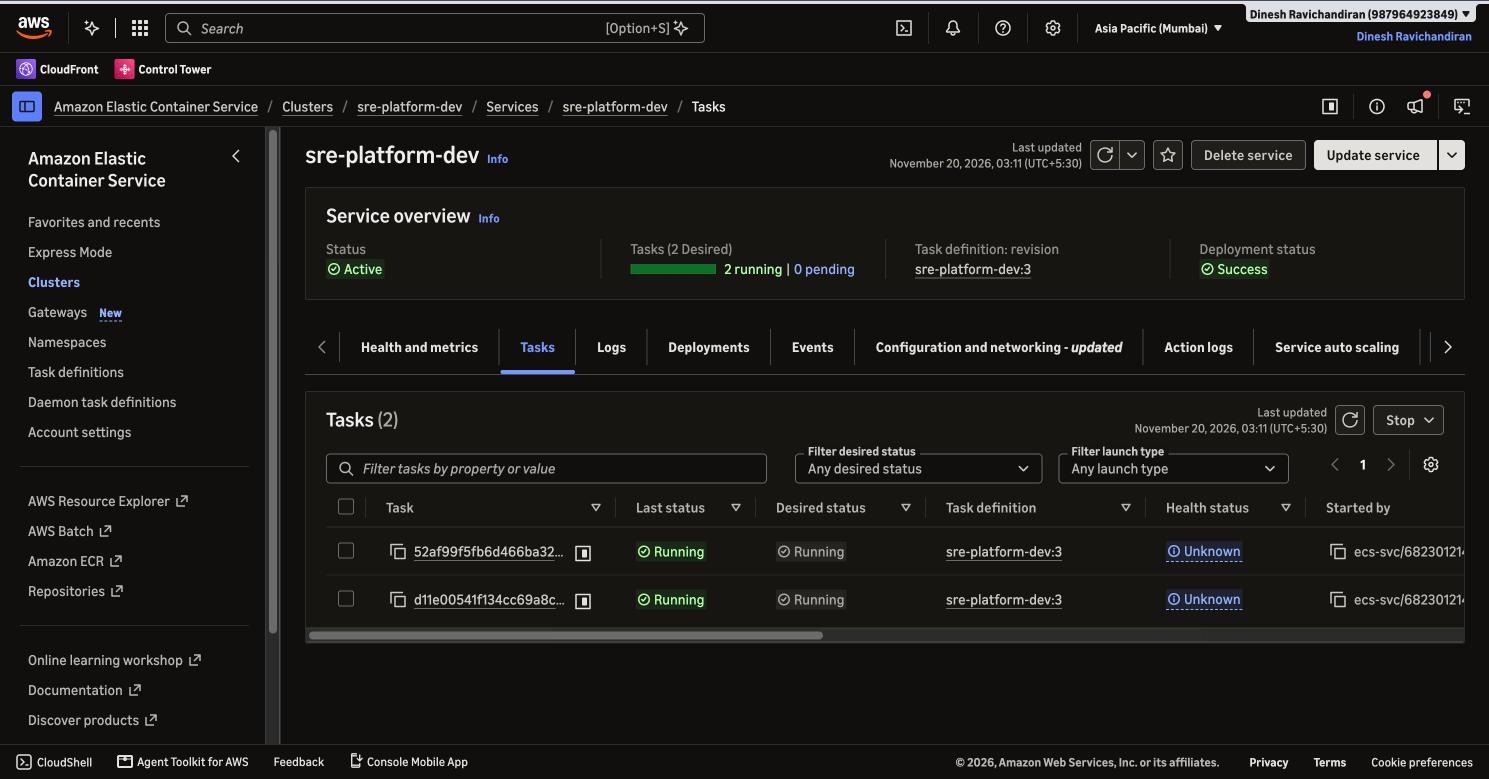
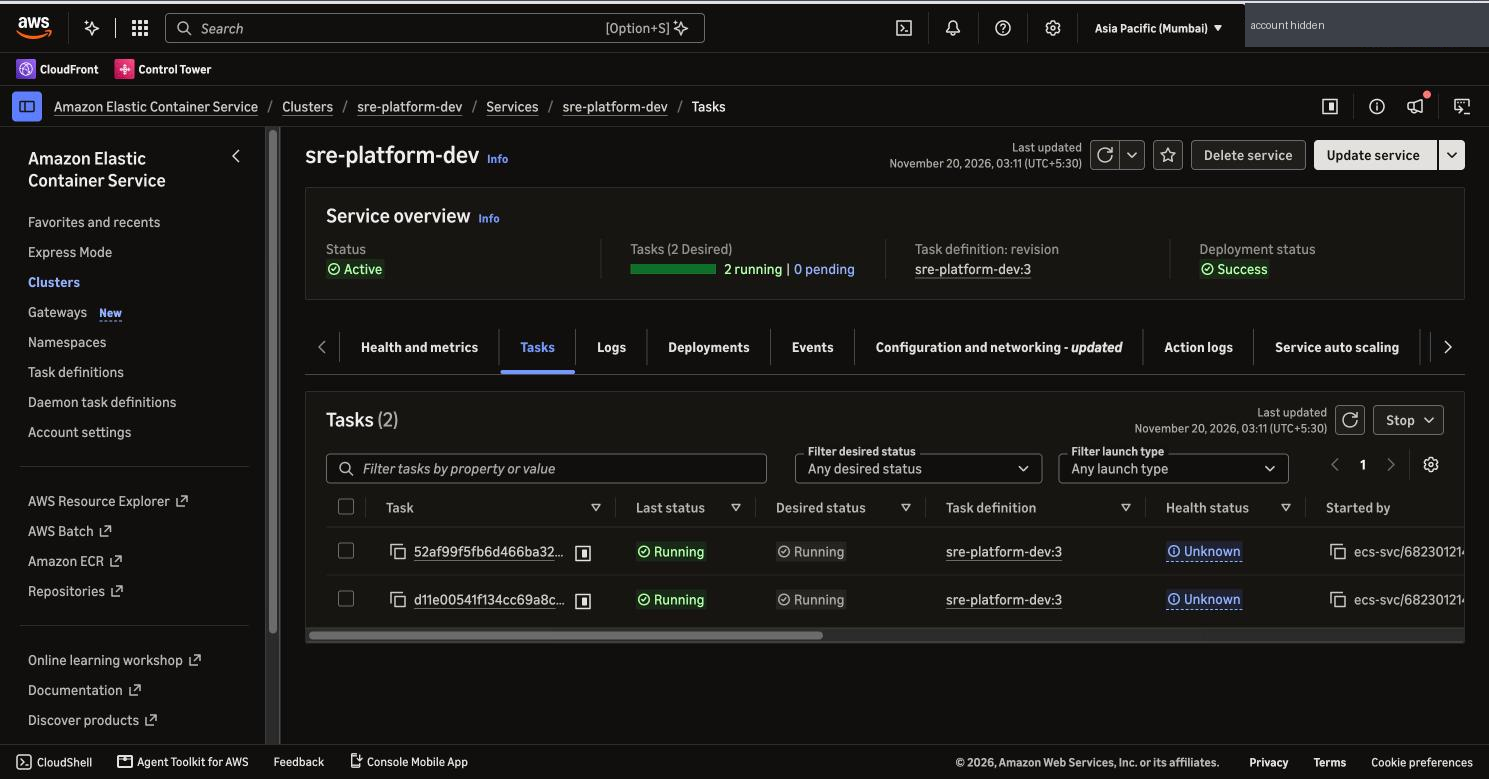
Redact account ID in screenshots, restore neutral ingress default, clarify bootstrap is still in place [skip ci]

Changed region(s): [[0.8341, 0.0, 1.0, 0.0616]]

diff --git a/README.md b/README.md
@@ -14,7 +14,8 @@ budget alert.
 
 > **Status: applied to a real AWS account, drilled and destroyed on 20 November 2026 (IST).**
 > The stack was deployed through the pipeline (56 resources), exercised with five drills and torn
-> down the same night. Nothing is running now. Screenshots and the drill notes, with the numbers I
+> down the same night. Nothing from the `dev` stack is running now; the one-time `bootstrap/` stack
+> (state bucket, sign-in roles, budget alert) is still in place and costs almost nothing. Screenshots and the drill notes, with the numbers I
 > measured, are in [`docs/evidence/`](docs/evidence/drills.md). Cost Explorer has not been checked yet,
 > so there is no measured bill in this repository.
 > [`docs/RUNBOOK.md`](docs/RUNBOOK.md) is the procedure I followed.

diff --git a/docs/RUNBOOK.md b/docs/RUNBOOK.md
@@ -46,6 +46,8 @@ apply and destroy now waits for your approval.
 1. Create a branch, change a default in `envs/dev/variables.tf` (for example set
    `allowed_ingress_cidrs` to `["YOUR.IP.ADDR.ESS/32"]` so only you can reach the demo), open a
    pull request. The pipeline does not read `terraform.tfvars`, so defaults are what it deploys.
+   Your IP address then sits in a public repository's history, so use a private fork, or accept that
+   and put the default back to `0.0.0.0/0` in a follow-up commit once you have destroyed the stack.
 2. Confirm the `static` job passes and the `plan` job posts the plan as a comment.
    **Screenshot the plan comment.**
 3. Merge. The `apply` job waits for approval. Approve it.
